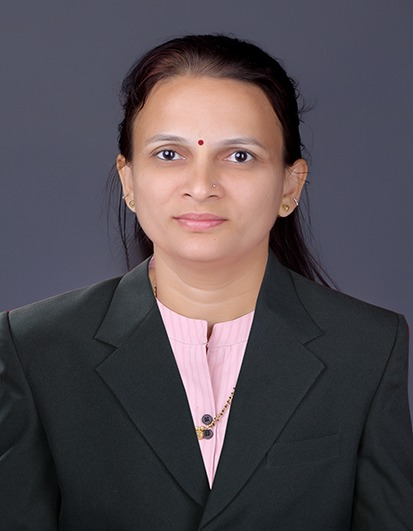
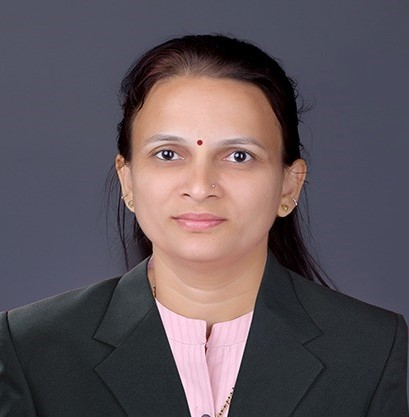
about dacoe,gisfi

diff --git a/index.html b/index.html
@@ -81,19 +81,19 @@
                 <div class="cal">
                     <img src="images/Calender3.png" alt="Calendar">
                     <h4>Notification of Acceptance</h4>
-                    <p>28th Feb.2026</p>
+                    <p><b>28th Feb.2026</b></p>
                 </div>
 
                 <div class="cal">
                     <img src="images/Calender5.png" alt="Calendar">
                     <h4>Submission Deadline for Camera Ready Paper</h4>
-                    <p>10th March 2026</p>
+                    <p><b>10th March 2026</b></p>
                 </div>
 
                 <div class="cal">
                     <img src="images/Calender6.png" alt="Calendar">
                     <h4>Last Date of Registration</h4>
-                    <p>12th March 2026</p>
+                    <p><b>12th March 2026</b></p>
                 </div>
 
                 <div class="cal">
@@ -157,11 +157,73 @@ SDG 8: Decent Work and Economic Growth
 8. To promote ethical, inclusive, and responsible use of technology.
 SDG 10: Reduced Inequalities & SDG 16: Peace, Justice and Strong Institutions
 </pre>
+<p></p>
 
     </div>
 
-
-
+    <h2>Objective of Workshop</h2>
+    <div class="about-content">
+        <p>The objective of the International Workshop on Sustainable Digital Transformation and Smart Technologies is
+             to provide a global platform for academicians, researchers, industry professionals, and 
+             students to exchange knowledge on sustainable digital transformation and smart technology 
+             innovations. The workshop aims to explore the role of digital and smart technologies in
+              addressing environmental, social, and economic sustainability challenges, while promoting 
+              responsible, ethical, and inclusive technology adoption. It encourages interdisciplinary 
+              collaboration, dissemination of best practices and real-world case studies, and discussion 
+              on emerging trends in sustainable digital systems. The event also seeks to support capacity
+               building and inspire young researchers through expert interactions and knowledge sharing for
+            sustainable development.</p>
+    </div>
+    <h2>About the DACOE</h2>
+    <div class="about-content">
+        <p>Dr. Daulatrao Aher College of Engineering Karad was established
+            in 2008 by Dr. Ashok G. Gujar, as a part of Shri G. K. Gujar
+            Memorial Charitable Trust’s activities at Karad. The institute is
+            approved by the All India Council for Technical Education (AICTE)
+            New Delhi, Directorate of Technical Education (DTE) Mumbai, and
+            Government of Maharashtra and is affiliated to Shivaji University
+            Kolhapur. The institute offers engineering programs in Mechanical
+            Engineering, Electronics and Telecommunications (E&TC), Civil
+            Engineering, Computer Science and Engineering (CSE) and
+            Artificial Intelligence and Data Science leading to B.Tech. Degree
+            as per Shivaji University Curriculum. The institute has dedicated
+            faculty members and staff and is well equipped with laboratories.
+            The institute has important committees for governance,
+            management and administration. The main objective is to provide
+            quality education to students of engineering. With this aim in mind
+            the management, faculty and staff have commitments towards
+            academic excellence and relevance. We at DACOE, Karad believe
+            in rational and visibility.</p>
+    </div>
+    <h2>About GISFI</h2>
+    <div class="about-content">
+        <p>
+            The Global ICT Standardization Forum for India (GISFI) is an
+        Indian standardization body active in the area of
+        Information and Communication Technologies (ICT) and related
+        application areas such as energy, telemedicine, wireless robotics,
+        biotechnology.
+        India is playing an increasingly important role in the processes
+        of globalization in the field of the communications, technology,
+        industry and research and development.
+        GISFI is an effort to create a new coherence and strengthen the role
+        of India in the world standardization process by mapping
+        the achievements in ICT in India to the global standardization
+        trends. Further, GISFI is focused on strengthening the ties among
+        leading and emerging scholars and institutions in India and the
+        world, to develop and cultivate a research and development
+        agendaforthefield.
+        GISFI addresses the research and product development of ICT in
+        India and provides a bridge towards the globalization of the
+        Indian achievements, the issues of technology,
+        governance, and development, and a platform for raising
+        an awareness of the importance and the internationalization of
+        the higher education in the field are supported by the joint
+        partnership with the Government of India. The working groups
+        organized in GISFI will draw knowledge from academia,
+        business, civil society, and Government/policy- making circles
+        </p>
+    </div>
 </section>
 <footer class="footer">
     <a href="https://github.com/omkar3311" target="_blank" rel="noopener noreferrer">

diff --git a/dates.html b/dates.html
@@ -61,19 +61,19 @@
                 <div class="cal">
                     <img src="images/Calender3.png" alt="Calendar">
                     <h4>Notification of Acceptance</h4>
-                    <p>28th Feb.2026</p>
+                    <p><b>28th Feb.2026</b></p>
                 </div>
 
                 <div class="cal">
                     <img src="images/Calender5.png" alt="Calendar">
                     <h4>Submission Deadline for Camera Ready Paper</h4>
-                    <p>10th March 2026</p>
+                    <p><b>10th March 2026</b></p>
                 </div>
 
                 <div class="cal">
                     <img src="images/Calender6.png" alt="Calendar">
                     <h4>Last Date of Registration</h4>
-                    <p>12th March 2026</p>
+                    <p><b>12th March 2026</b></p>
                 </div>
 
                 <div class="cal">

diff --git a/patron-chairs.html b/patron-chairs.html
@@ -101,7 +101,7 @@
                 <h2>CONVENER</h2>
                 <div class="committee-row">
             <div class="committee-box">
-                <img src="images/Mr.Gurav.jpg" alt="Dr. Ashok Gujar">
+                <img src="images/Mr.Gurav1.jpg" alt="Dr. Ashok Gujar">
                 <h4>Dr. Ramchandra K. Gurav</h4>
             </div>
         </section>

diff --git a/style.css b/style.css
@@ -127,7 +127,7 @@
 
 .hero-text {
     position: absolute;
-    top: -10%;
+    top: -11%;
     left: 18%;
     transform: translate(-50%, 70%);
     color: #ffffff;
